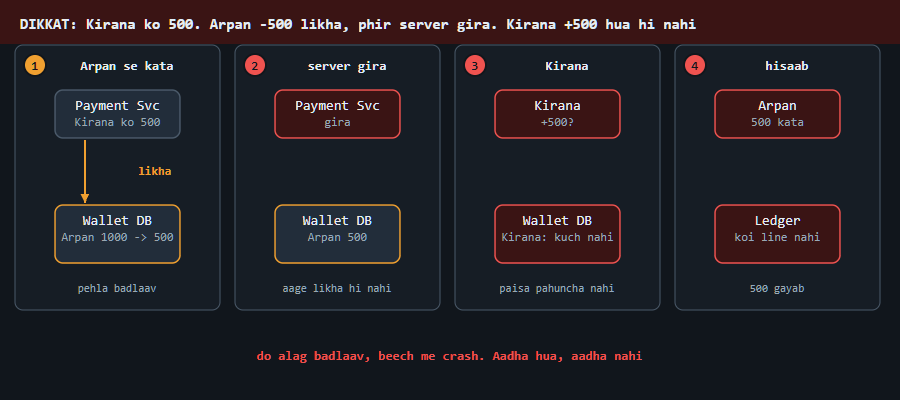
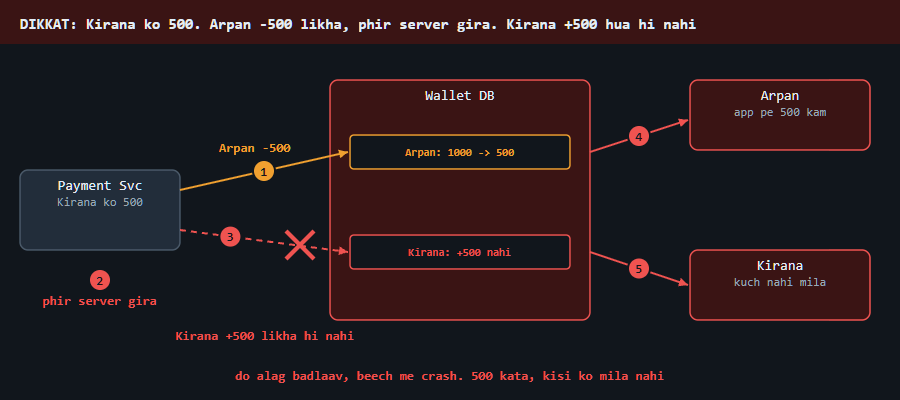
hld payment c1 dikkat: frame ki jagah ek tasveer, har kadam teer (Arpan -500, gira, Kirana +500 nahi pahuncha)

diff --git a/04_HLD/SYSTEM_DESIGNS/06_payment_system/img/c1_anim.html b/04_HLD/SYSTEM_DESIGNS/06_payment_system/img/c1_anim.html
@@ -154,11 +154,18 @@ function panel(k, title, top, bot, lab, down, c, note) {
 }
 function frame(ph) {
   if (ph === 0) {
-    panel(0, 'Arpan se kata', ['Payment Svc', 'Kirana ko 500', ''], ['Wallet DB', 'Arpan 1000 -> 500', 'acc'], 'likha', true, C.acc, 'pehla badlaav');
-    panel(1, 'server gira', ['Payment Svc', 'gira', 'bad'], ['Wallet DB', 'Arpan 500', 'acc'], '', true, C.bad, 'aage likha hi nahi');
-    panel(2, 'Kirana', ['Kirana', '+500?', 'bad'], ['Wallet DB', 'Kirana: kuch nahi', 'bad'], '', true, C.bad, 'paisa pahuncha nahi');
-    panel(3, 'hisaab', ['Arpan', '500 kata', 'bad'], ['Ledger', 'koi line nahi', 'bad'], '', true, C.bad, '500 gayab');
-    L(450, 320, 'do alag badlaav, beech me crash. Aadha hua, aadha nahi', C.bad);
+    B(20, 130, 160, 80, 'Payment Svc', 'Kirana ko 500');
+    B(330, 40, 260, 240, 'Wallet DB', '', { st: 'bad' });
+    cells(350, 95, [['Arpan: 1000 -> 500', C.acc]], { w: 220, h: 34 });
+    cells(350, 195, [['Kirana: +500 nahi', C.bad]], { w: 220, h: 34 });
+    A(180, 150, 348, 112, C.acc, { n: 1 }); L(255, 112, 'Arpan -500', C.acc);
+    num(100, 240, 2, C.bad); L(100, 265, 'phir server gira', C.bad);
+    A(180, 190, 348, 212, C.bad, { n: 3, dash: 1, at: 0.3 }); cross(300, 205); L(265, 300, 'Kirana +500 likha hi nahi', C.bad);
+    B(690, 40, 180, 70, 'Arpan', 'app pe 500 kam', { st: 'bad' });
+    B(690, 210, 180, 70, 'Kirana', 'kuch nahi mila', { st: 'bad' });
+    A(590, 112, 688, 80, C.bad, { n: 4 });
+    A(590, 212, 688, 245, C.bad, { n: 5 });
+    L(450, 340, 'do alag badlaav, beech me crash. 500 kata, kisi ko mila nahi', C.bad);
   } else if (ph === 1) {
     B(20, 140, 150, 70, 'Payment Svc', 'Kirana ko 500');
     B(300, 30, 560, 250, 'Wallet DB: ek transaction', '', { st: 'good' });

diff --git a/04_HLD/SYSTEM_DESIGNS/06_payment_system/img/c1_anim.js b/04_HLD/SYSTEM_DESIGNS/06_payment_system/img/c1_anim.js
@@ -19,11 +19,18 @@ function panel(k, title, top, bot, lab, down, c, note) {
 }
 function frame(ph) {
   if (ph === 0) {
-    panel(0, 'Arpan se kata', ['Payment Svc', 'Kirana ko 500', ''], ['Wallet DB', 'Arpan 1000 -> 500', 'acc'], 'likha', true, C.acc, 'pehla badlaav');
-    panel(1, 'server gira', ['Payment Svc', 'gira', 'bad'], ['Wallet DB', 'Arpan 500', 'acc'], '', true, C.bad, 'aage likha hi nahi');
-    panel(2, 'Kirana', ['Kirana', '+500?', 'bad'], ['Wallet DB', 'Kirana: kuch nahi', 'bad'], '', true, C.bad, 'paisa pahuncha nahi');
-    panel(3, 'hisaab', ['Arpan', '500 kata', 'bad'], ['Ledger', 'koi line nahi', 'bad'], '', true, C.bad, '500 gayab');
-    L(450, 320, 'do alag badlaav, beech me crash. Aadha hua, aadha nahi', C.bad);
+    B(20, 130, 160, 80, 'Payment Svc', 'Kirana ko 500');
+    B(330, 40, 260, 240, 'Wallet DB', '', { st: 'bad' });
+    cells(350, 95, [['Arpan: 1000 -> 500', C.acc]], { w: 220, h: 34 });
+    cells(350, 195, [['Kirana: +500 nahi', C.bad]], { w: 220, h: 34 });
+    A(180, 150, 348, 112, C.acc, { n: 1 }); L(255, 112, 'Arpan -500', C.acc);
+    num(100, 240, 2, C.bad); L(100, 265, 'phir server gira', C.bad);
+    A(180, 190, 348, 212, C.bad, { n: 3, dash: 1, at: 0.3 }); cross(300, 205); L(265, 300, 'Kirana +500 likha hi nahi', C.bad);
+    B(690, 40, 180, 70, 'Arpan', 'app pe 500 kam', { st: 'bad' });
+    B(690, 210, 180, 70, 'Kirana', 'kuch nahi mila', { st: 'bad' });
+    A(590, 112, 688, 80, C.bad, { n: 4 });
+    A(590, 212, 688, 245, C.bad, { n: 5 });
+    L(450, 340, 'do alag badlaav, beech me crash. 500 kata, kisi ko mila nahi', C.bad);
   } else if (ph === 1) {
     B(20, 140, 150, 70, 'Payment Svc', 'Kirana ko 500');
     B(300, 30, 560, 250, 'Wallet DB: ek transaction', '', { st: 'good' });

diff --git a/04_HLD/SYSTEM_DESIGNS/06_payment_system/06_payment_system.md b/04_HLD/SYSTEM_DESIGNS/06_payment_system/06_payment_system.md
@@ -52,11 +52,11 @@ Cue: EK TRANSACTION (WAL se poora / ulta)
 
 <details><summary>kahani dekho (3 scene)</summary>
 
-<img src="img/c1_1.png?v=2" width="900">
+<img src="img/c1_1.png?v=3" width="900">
 
-<img src="img/c1_2.png?v=2" width="900">
+<img src="img/c1_2.png?v=3" width="900">
 
-<img src="img/c1_3.png?v=2" width="900">
+<img src="img/c1_3.png?v=3" width="900">
 
 </details>
 
